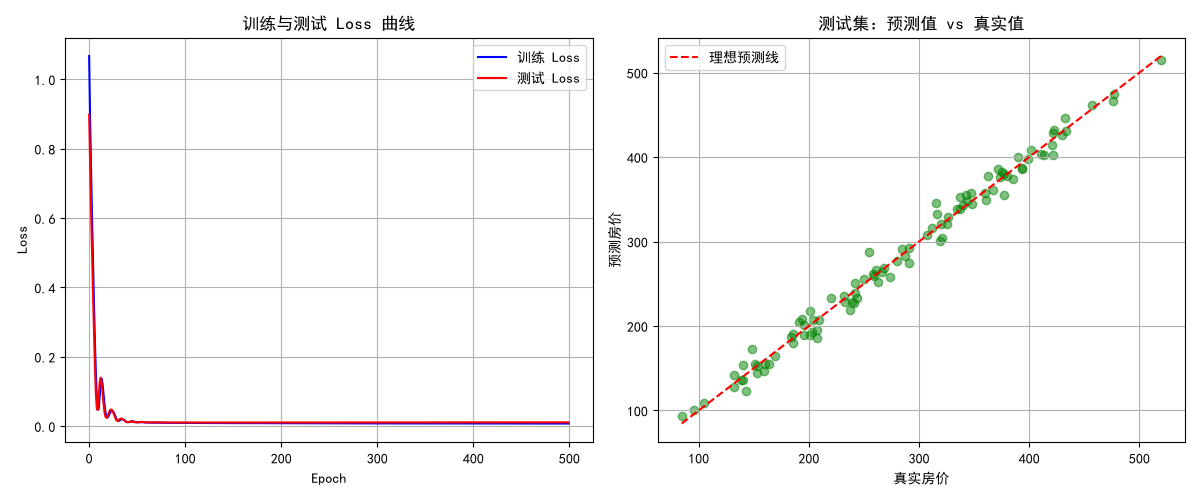
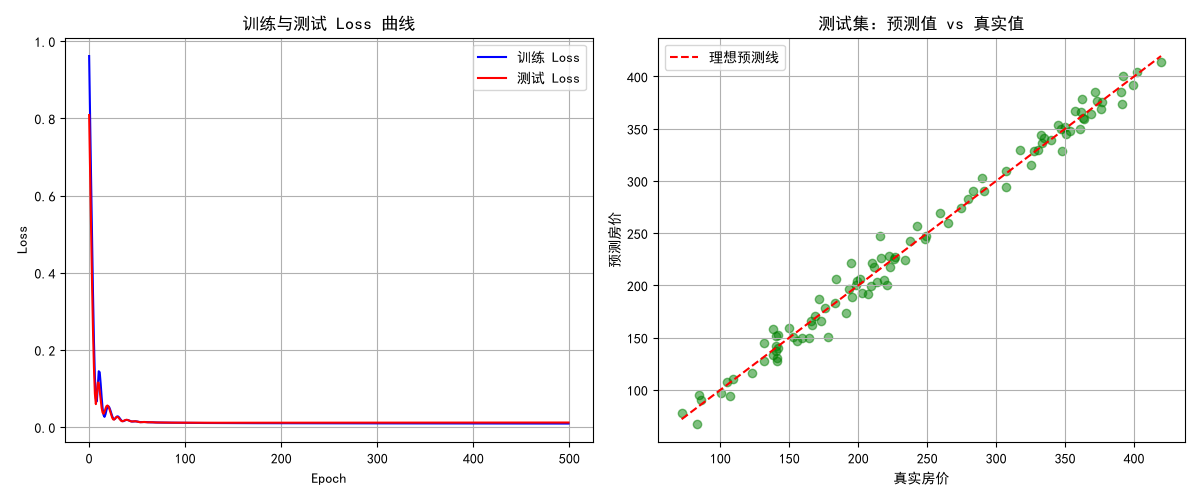
Day12: 完成房价预测完整项目，含归一化、训练测试划分、可视化与模型保存

diff --git a/day12_house_price.py b/day12_house_price.py
@@ -104,3 +104,6 @@ plt.grid(True)
 plt.tight_layout()
 plt.savefig("day12_house_price.png")
 plt.show()
+
+torch.save(model.state_dict(), "day12_house_model.pth")
+print("\n模型已保存为 day12_house_model.pth")
